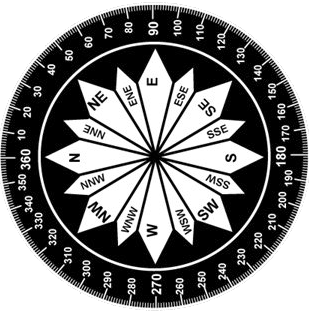
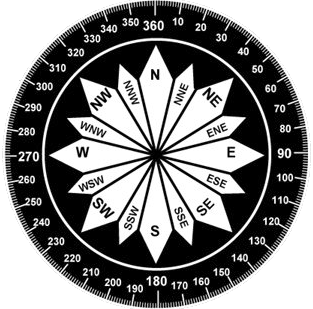
Fix 'north' to point upwards

Changed region(s): [[0.0, 0.0, 1.0, 1.0]]

diff --git a/src/main/java/uk/ac/cam/november/simulation/WorldModel.java b/src/main/java/uk/ac/cam/november/simulation/WorldModel.java
@@ -213,12 +213,13 @@ public class WorldModel {
      *            The number of seconds to advance time by.
      */
     public void step(float dt) {
-        double ang = Math.toRadians(heading);
+        // correct for 'north' being 'east'
+        double ang = Math.toRadians(heading - 90);
         boatX += Math.cos(ang) * boatSpeed * (1 * dt);
         boatY += Math.sin(ang) * boatSpeed * (1 * dt);
         waterDepth = depthMap.getDepth(boatX, boatY);
-        
-        if(waterDepth < 5){
+
+        if (waterDepth < 5) {
             boatX -= Math.cos(ang) * boatSpeed * (1 * dt);
             boatY -= Math.sin(ang) * boatSpeed * (1 * dt);
             boatSpeed = 0;
